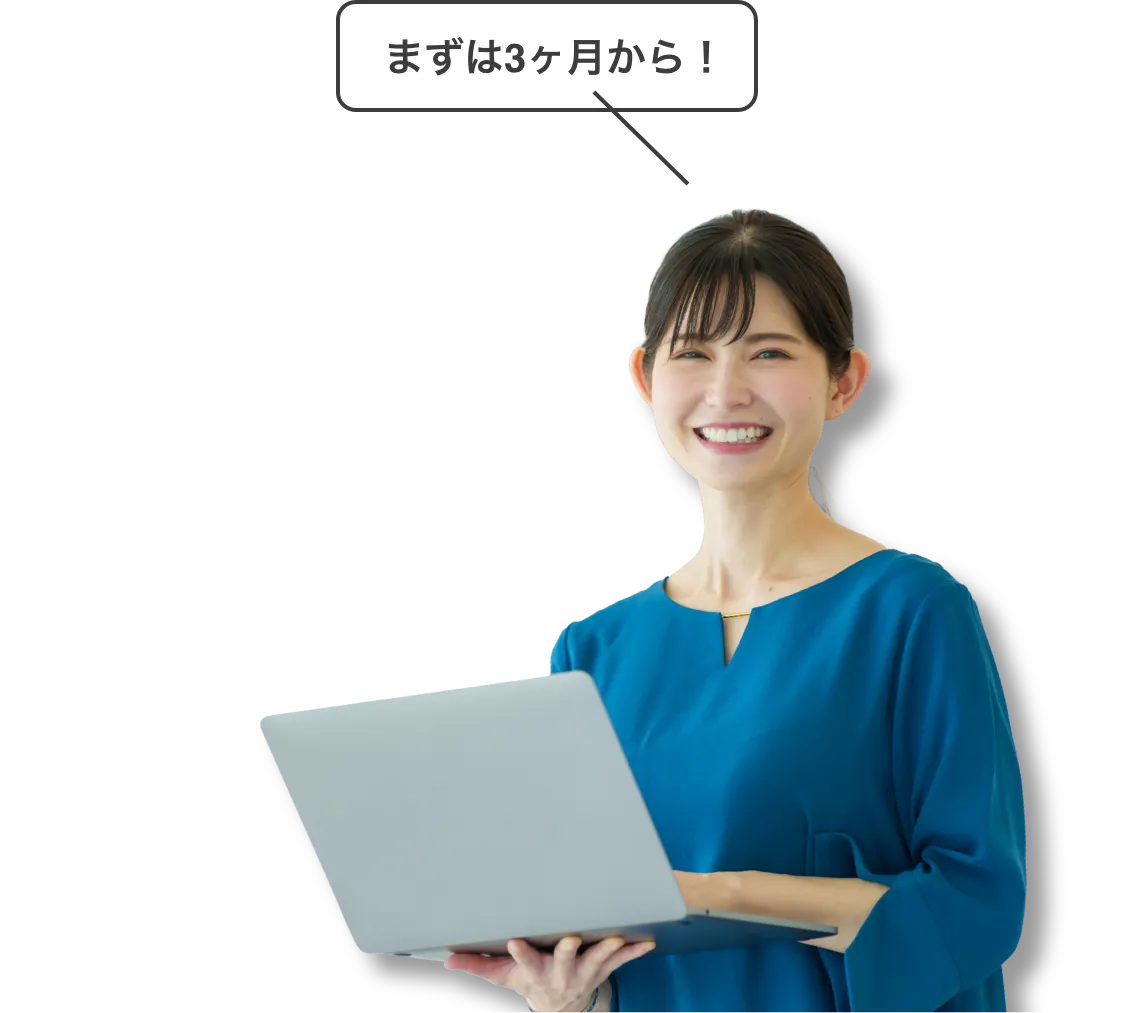
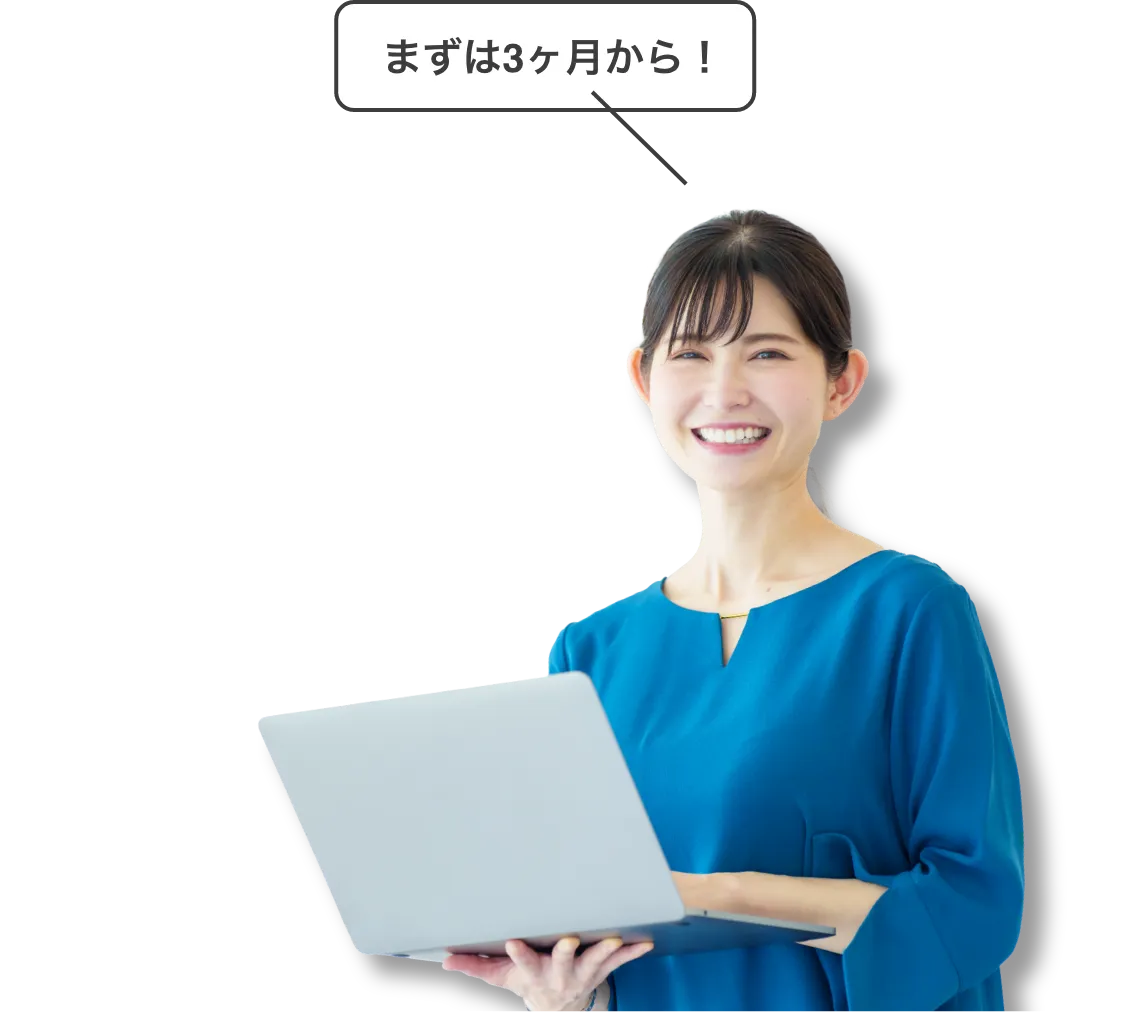
料金セクションの女性の画像を変更

diff --git a/assets/scss/page/_price.scss b/assets/scss/page/_price.scss
@@ -218,7 +218,7 @@
         .price__person {
             position: absolute;
             top: auto;
-            bottom: 0;
+            bottom: -1px;
             right: 0;
             width: rem(280);
         }
